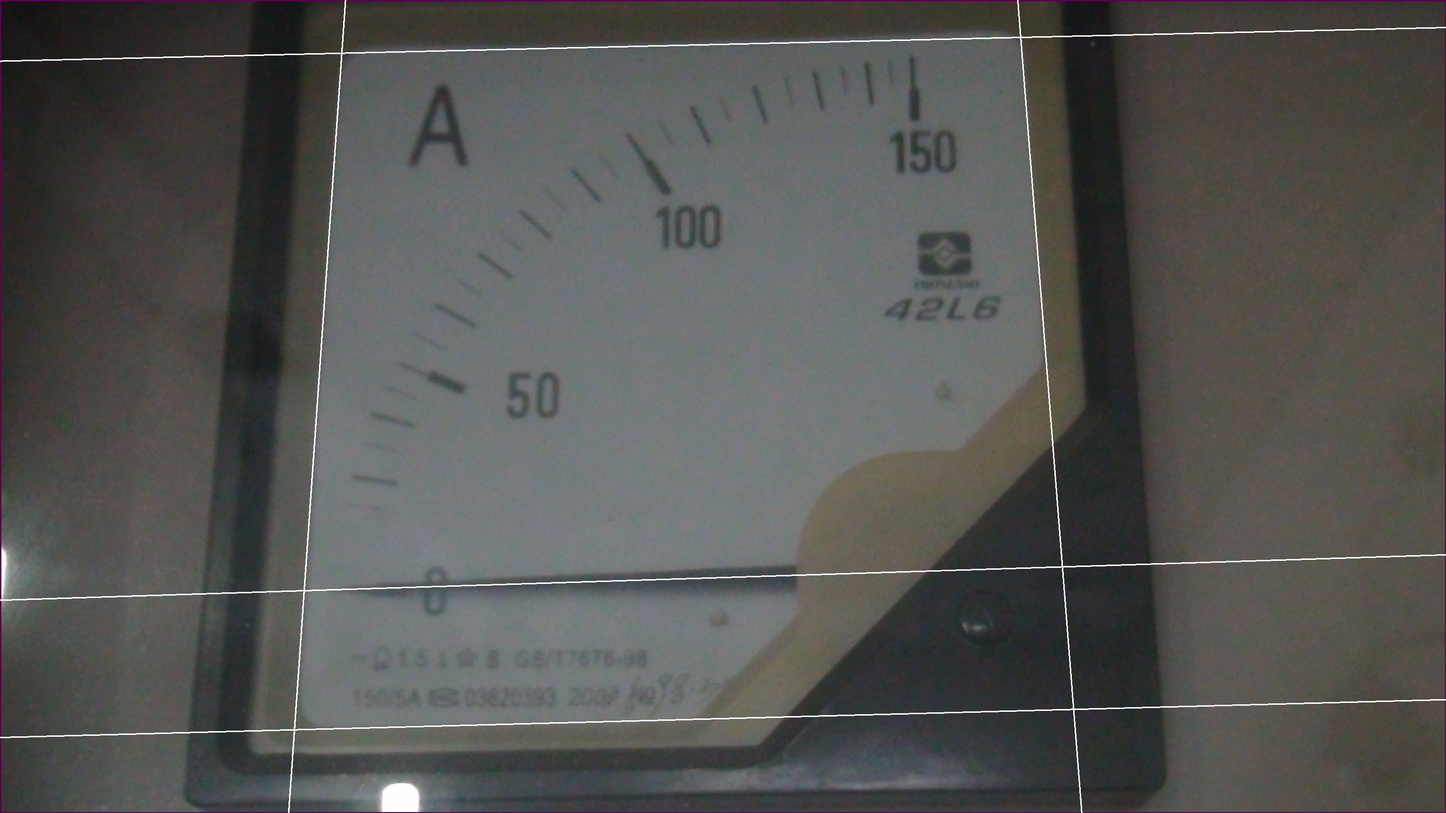
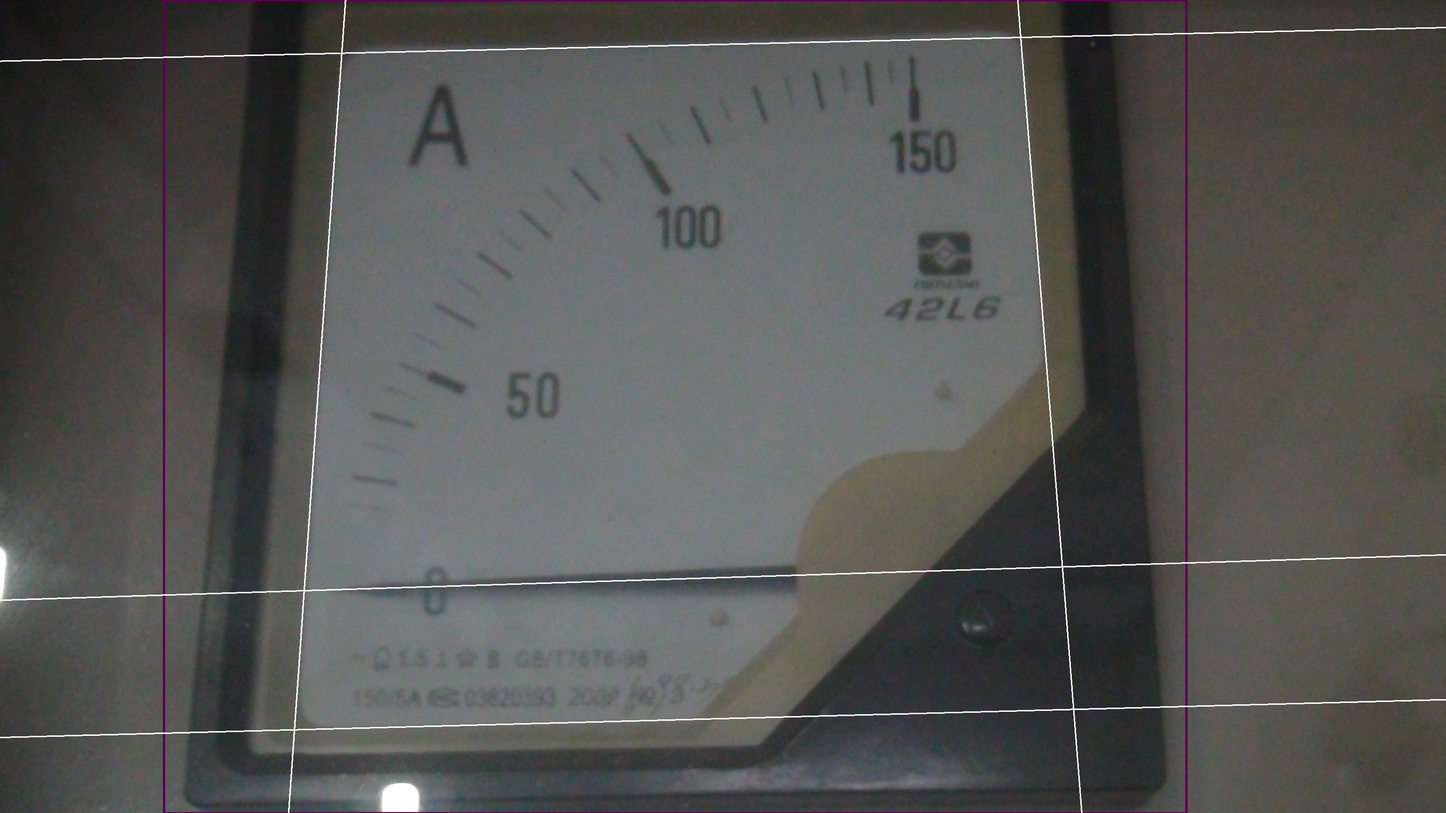
新增色彩提取、方差筛选以及模式识别表盘位置

diff --git a/ReadingMeters/Main.cpp b/ReadingMeters/Main.cpp
@@ -1,10 +1,12 @@
-#include <stdio.h>
+//press ctrl + F5 to run this programme in vs 2015
+#include <stdio.h>
 #include <cv.h>
 #include <highgui.h>
 #include <cvaux.h>
 #include <opencv2/opencv.hpp>
 #include <opencv2/imgproc/imgproc.hpp>
 #include <Windows.h>
+#include <math.h>
 
 #define IMAGE_NUM 4
 #define WINDOW_CHANGABLESIZE 0
@@ -24,6 +26,8 @@
 #define ADJACENT_COEFFICIENT_T 0.08
 #define TRANS_LEN 1500
 #define FRAME_CUT 15
+#define VARIANCE_THRESHOLD0 1000
+#define VARIANCE_THRESHOLD1 10
 
 using namespace cv;
 using namespace std;
@@ -39,10 +43,12 @@ vector <Vec2f> MergeLines(vector<Vec2f> lines, int threshold_r, float threshold_
 void DrawLine(float rho, float theta, Mat srcImage, char dst[], Scalar s);
 vector <Vec2f> BubbleSort(vector<Vec2f> lines, int type);
 void PrintLines(vector<Vec2f> lines, int num);
+Mat SeperateRGB(Mat srcImage, int num, int low, int high);
+vector<Vec2f> VarianceSelectOfLines(vector<Vec2f> lines, float threshold0, float threshold1);
 
 int main() {
-	printf("\n\n\n##########     ReadingMeters v0.0.4     ##########\n");
-	printf("##########  Last updating in 2017/9/20  ##########\n\n\n");
+	printf("\n\n\n##########     ReadingMeters v0.0.5     ##########\n");
+	printf("##########  Last updating in 2017/9/27   ##########\n\n\n");
 
 	int pic_num = 1;
 
@@ -53,6 +59,7 @@ int main() {
 	char dst4[] = "result\\0_find.jpg";
 	char dst5[] = "result\\0_edge2.jpg";
 	char dst6[] = "result\\0_pointer.jpg";
+	char dst7[] = "result\\0_afterDilate.jpg";
 
 	Mat letterA = imread("A.jpg", 1);
 
@@ -64,10 +71,30 @@ int main() {
 		dst4[7] = 49 + i;
 		dst5[7] = 49 + i;
 		dst6[7] = 49 + i;
+		dst7[7] = 49 + i;
 
 		Mat srcImage = imread(name, 1);
 		Mat dstImage;
+		dstImage.create(srcImage.rows, srcImage.cols, srcImage.type());
+
 		
+		Mat dstImage1 = dstImage(Range(0, dstImage.rows / 2), Range(0, dstImage.cols));
+		Mat dstImage2 = dstImage(Range(dstImage.rows / 2 + 1, dstImage.rows), Range(0, dstImage.cols));
+		Mat srcImage1 = srcImage(Range(0, srcImage.rows / 2), Range(0, srcImage.cols));
+		Mat srcImage2 = srcImage(Range(srcImage.rows / 2 + 1, srcImage.rows), Range(0, srcImage.cols));
+
+		dstImage1 = SeperateRGB(srcImage1, i, 85, 180);
+		dstImage2 = SeperateRGB(srcImage2, i, 105, 180);
+
+		dstImage = mergeRows(dstImage1, dstImage2);
+
+		Mat element = getStructuringElement(MORPH_ELLIPSE, Size(5, 5));
+		dilate(dstImage, dstImage, element);
+
+		imwrite(dst7, dstImage);
+		
+
+		//^^^^^^^^^^^^^^^^^^^^^^^^^^^^^^^^^^^^^^^^^^^^^^^^^^^^^^^^^^^^
 		dstImage = transformProcess(srcImage, dstImage, i);
 
 		imwrite(dst, dstImage);
@@ -147,10 +174,10 @@ int main() {
 			range = 150;
 			printf("%d.jpg-result: %.2f A\n\n", i+1, range*rate);
 		}
-			
+		
 	}
-
-	printf("--------END--------\n\n\a");
+	
+	printf("--------END--------\n\n\a\a");
 
 	return 0;
 }
@@ -183,7 +210,7 @@ Mat transformProcess(Mat srcImage, Mat dstImage, int num) {
 	char dstFind[] = "result\\0_dial.jpg";
 	char dstMerge[] = "result\\0_merge.jpg";
 	char dstEdge[] = "result\\0_edge.jpg";
-	char dstHough[] = "result\\0_hough.jpg";
+	char dstHough[] = "result\\0_hough1.jpg";
 	char dstRec[] = "result\\0_rec.jpg";
 	dst[7] = 49 + num;
 	dstFind[7] = 49 + num;
@@ -191,7 +218,7 @@ Mat transformProcess(Mat srcImage, Mat dstImage, int num) {
 	dstEdge[7] = 49 + num;
 	dstHough[7] = 49 + num;
 	dstRec[7] = 49 + num;
-	
+
 	Mat greyImage;
 	//-------------------Greyed
 	cvtColor(srcImage, greyImage, CV_BGR2GRAY);
@@ -273,12 +300,34 @@ Mat transformProcess(Mat srcImage, Mat dstImage, int num) {
 	//################################################# 补充完整剩下的三种情况 ##################################
 
 
-
 	//打印表盘的四边
 	line(srcImage, a, b, Scalar(0, 0, 255), 5);
 	line(srcImage, b, c, Scalar(0, 0, 255), 5); 
 	line(srcImage, c, d, Scalar(0, 0, 255), 5);
 	line(srcImage, d, a, Scalar(0, 0, 255), 5);
+
+	float k1, t1, k2, t2;
+	int x1, y1;
+	k1 = (a.y - c.y) / (a.x - c.x);
+	t1 = c.y - k1*c.x;
+	k2 = (b.y - d.y) / (b.x - d.x);
+	t2 = d.y - k2*d.x;
+	x1 = (int)((t2 - t1) / (k1 - k2));
+	y1 = (int)(k1*x1 + t1);
+
+	Point findMiddle = Point(x1, y1);
+
+	circle(srcImage, findMiddle, 10, Scalar(255,255,255), 4);
+	circle(srcImage, dialLoc, 10, Scalar(255, 255, 255), 4);
+
+	printf("<%d.jpg> midlle point\n model: (%d,%d); find: (%d,%d).\n", num, dialLoc.x, dialLoc.y, findMiddle.x, findMiddle.y);
+
+	//so a comparation is needed here!
+	int len_square = (d.x-c.x)*(d.x-c.x) + (d.y-c.y)*(d.y*c.y);
+	int distance_square = (findMiddle.x - dialLoc.x)*(findMiddle.x - dialLoc.x) 
+		+ (findMiddle.y - dialLoc.y)*(findMiddle.y - dialLoc.y);
+	if (distance_square > (len_square/16))
+		printf("<error>: center not matching.");
 
 	imwrite(dstRec, srcImage);
 
@@ -452,8 +501,6 @@ Point MatchMain(Mat findImage, Mat modeImage, char store_path[])
 
 	Point resultPoint = Point((minPoint.x + modeImage.cols/2), (minPoint.y + modeImage.rows/2));
 
-	//circle(findImage, resultPoint, 5, Scalar(theRNG().uniform(0, 255), theRNG().uniform(0, 255), theRNG().uniform(0, 255)), 3, 8);
-
 	return resultPoint;
 	//return minPoint;
 }
@@ -505,8 +552,6 @@ vector <Vec2f> BubbleSort(vector<Vec2f> lines, int type) {
 vector <Vec2f> MergeLines(vector<Vec2f> lines_in, int threshold_r, float threshold_theta, int bubble) {
 	//--------------------bubble select
 	vector<Vec2f> lines = BubbleSort(lines_in, bubble);
-	//if(bubble == 1)
-		//PrintLines(lines, 555);
 	//------------------re group the lines
 	vector<Vec2f> lines_new;
 	int part_num = 1;
@@ -569,4 +614,78 @@ void PrintLines(vector<Vec2f> lines, int num) {
 		printf("line%d:%f,%f\n", i, lines[i][0], lines[i][1]);
 	}
 	printf("\n");
+}
+
+Mat SeperateRGB(Mat srcImage, int num, int low, int high) {
+
+	Mat dstImage;
+	dstImage.create(srcImage.rows, srcImage.cols, srcImage.type());
+
+	for (int i = 0; i < srcImage.rows; i++) {
+		for (int j = 0; j < srcImage.cols; j++) {
+			int sB = srcImage.at<Vec3b>(i, j)[0];
+			int sG = srcImage.at<Vec3b>(i, j)[1];
+			int sR = srcImage.at<Vec3b>(i, j)[2];
+			if (sR >= low && sR <= high && sG >= low && sG <= high && sB >= low && sB <= high
+				/*&& (abs(sR - sG) <= 5 && abs(sG - sB) <= 5)*/) {
+				dstImage.at<Vec3b>(i, j)[0] = 255;
+				dstImage.at<Vec3b>(i, j)[1] = 255;
+				dstImage.at<Vec3b>(i, j)[2] = 255;
+			}
+			else {
+				dstImage.at<Vec3b>(i, j)[0] = 0;
+				dstImage.at<Vec3b>(i, j)[1] = 0;
+				dstImage.at<Vec3b>(i, j)[2] = 0;
+			}
+		}
+	}
+	return dstImage;
+}
+
+vector<Vec2f> VarianceSelectOfLines(vector<Vec2f> lines, float threshold0, float threshold1) {
+	if (lines.size() > 3) {
+		int total0 = 0;
+		int total1 = 0;
+		for (int i = 0; i < lines.size(); i++) {
+			total0 = total0 + lines[i][0];
+			total1 = total1 + lines[i][1];
+		}
+
+		int average0 = total0 / lines.size();
+		int average1 = total1 / lines.size();
+		int variance0 = 0;
+		int variance1 = 0;
+		int max0 = -1;
+		int max1 = -1;
+		int maxnum0 = 0;
+		int maxnum1 = 0;
+ 		for (int i = 0; i < lines.size(); i++) {
+			int square0 = (lines[i][0] - average0) * (lines[i][0] - average0);
+			int square1 = (lines[i][1] - average1) * (lines[i][1] - average1);
+			if (square0 > maxnum0) {
+				maxnum0 = square0;
+				max0 = i;
+			}
+			if (square1 > maxnum1) {
+				maxnum1 = square1;
+				max1 = i;
+			}
+			variance0 = variance0 + square0;
+			variance1 = variance1 + square1;
+		}
+
+		int flag = 0;
+		if (variance0 > threshold0) {
+			lines.erase(lines.begin() + max0);
+			flag = 1;
+		}
+		if (variance1 > threshold1) {
+			lines.erase(lines.begin() + max1);
+			flag = 1;
+		}
+		if (flag == 1) {
+			lines = VarianceSelectOfLines(lines, threshold0, threshold1);
+		}
+	}
+	return lines;
 }
